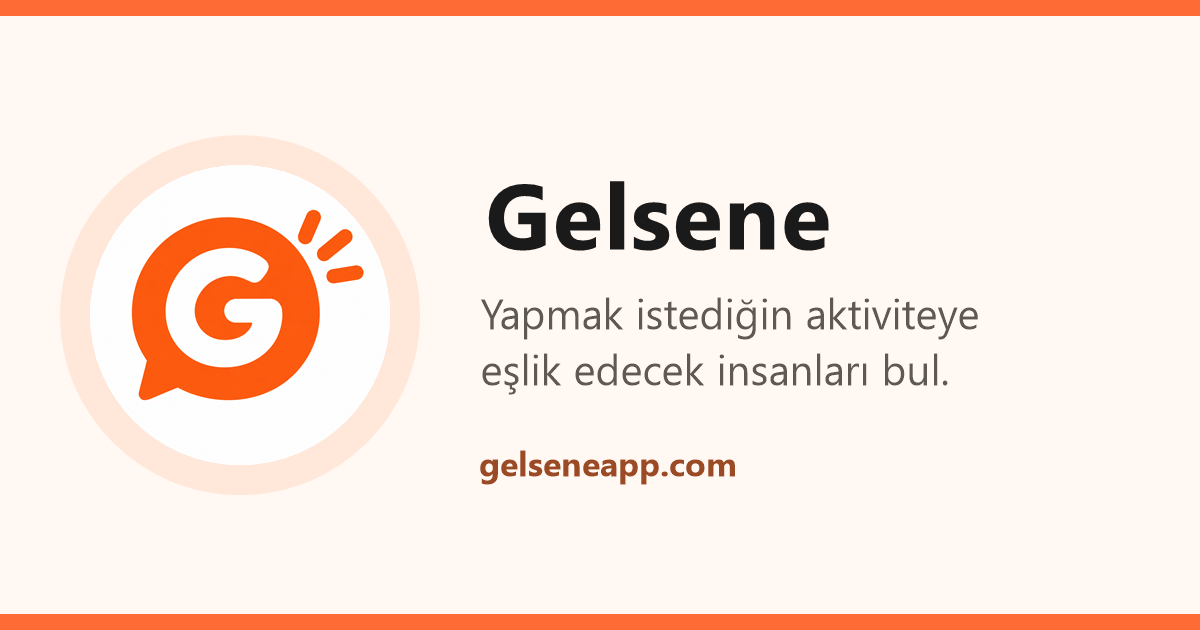
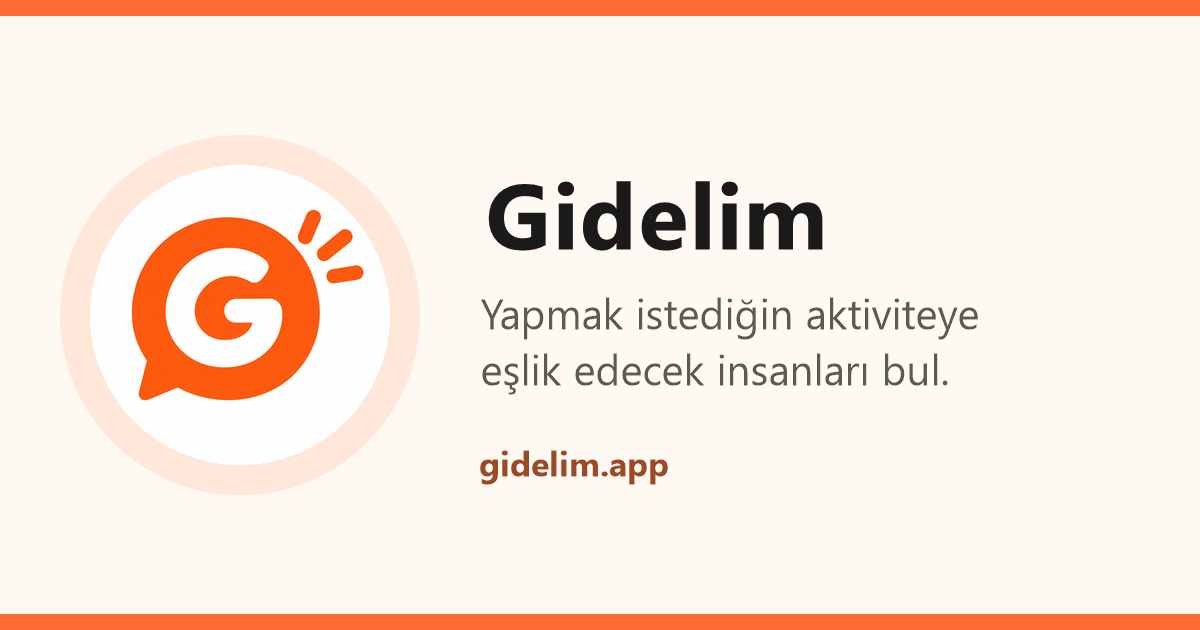
Siteyi Gidelim adına ve gidelim.app alan adına taşı

Changed region(s): [[0.4625, 0.2714, 0.7092, 0.4222], [0.4008, 0.6937, 0.6167, 0.7841]]

diff --git a/src/data/legal.ts b/src/data/legal.ts
@@ -16,8 +16,8 @@ export type LegalDocument = {
   blocks: LegalBlock[];
 };
 
-export const LEGAL_CONTACT_EMAIL = 'destek@gelseneapp.com';
-export const LEGAL_LAST_UPDATED = '6 Ekim 2026';
+export const LEGAL_CONTACT_EMAIL = 'destek@gidelim.app';
+export const LEGAL_LAST_UPDATED = '14 Ekim 2026';
 
 export const LEGAL_DOCUMENTS: Record<LegalDocId, LegalDocument> = {
   privacy: {
@@ -27,10 +27,10 @@ export const LEGAL_DOCUMENTS: Record<LegalDocId, LegalDocument> = {
       { type: 'heading', text: '1. Veri Sorumlusu' },
       {
         type: 'paragraph',
-        text: `Gelsene mobil uygulaması ("Uygulama", "Gelsene"), 6698 sayılı Kişisel Verilerin Korunması Kanunu ("KVKK") kapsamında veri sorumlusu sıfatıyla işletilmektedir. Kişisel verilerinizle ilgili sorularınız için ${LEGAL_CONTACT_EMAIL} adresinden bize ulaşabilirsiniz.`,
+        text: `Gidelim mobil uygulaması ("Uygulama", "Gidelim"), 6698 sayılı Kişisel Verilerin Korunması Kanunu ("KVKK") kapsamında veri sorumlusu sıfatıyla işletilmektedir. Kişisel verilerinizle ilgili sorularınız için ${LEGAL_CONTACT_EMAIL} adresinden bize ulaşabilirsiniz.`,
       },
       { type: 'heading', text: '2. İşlenen Kişisel Veriler' },
-      { type: 'paragraph', text: "Gelsene'yi kullanırken aşağıdaki kişisel verileriniz işlenebilir:" },
+      { type: 'paragraph', text: "Gidelim'i kullanırken aşağıdaki kişisel verileriniz işlenebilir:" },
       {
         type: 'bullets',
         items: [
@@ -76,7 +76,7 @@ export const LEGAL_DOCUMENTS: Record<LegalDocId, LegalDocument> = {
       { type: 'heading', text: '4. Kişisel Verilerin Aktarılması' },
       {
         type: 'paragraph',
-        text: "Verileriniz, Uygulama'nın altyapısını sağlayan hizmet sağlayıcılarla (örneğin Supabase — veritabanı, kimlik doğrulama ve depolama hizmeti; Expo/Firebase — push bildirim altyapısı) hizmetin gerektirdiği ölçüde paylaşılır. Bu sağlayıcılar, verilerinizi yalnızca Gelsene'ye hizmet sunmak amacıyla işler. Verileriniz, yasal zorunluluklar dışında üçüncü taraflarla pazarlama amacıyla paylaşılmaz veya satılmaz.",
+        text: "Verileriniz, Uygulama'nın altyapısını sağlayan hizmet sağlayıcılarla (örneğin Supabase — veritabanı, kimlik doğrulama ve depolama hizmeti; Expo/Firebase — push bildirim altyapısı) hizmetin gerektirdiği ölçüde paylaşılır. Bu sağlayıcılar, verilerinizi yalnızca Gidelim'e hizmet sunmak amacıyla işler. Verileriniz, yasal zorunluluklar dışında üçüncü taraflarla pazarlama amacıyla paylaşılmaz veya satılmaz.",
       },
       { type: 'heading', text: '5. Kişisel Verilerin Saklanma Süresi' },
       {
@@ -114,22 +114,22 @@ export const LEGAL_DOCUMENTS: Record<LegalDocId, LegalDocument> = {
       { type: 'heading', text: '1. Taraflar ve Kabul' },
       {
         type: 'paragraph',
-        text: `Bu Kullanım Şartları ("Şartlar"), Gelsene mobil uygulamasını ("Uygulama") kullanan siz ("Kullanıcı") ile Uygulama'yı işleten Gelsene arasındaki ilişkiyi düzenler. Uygulama'ya kayıt olarak veya kullanarak bu Şartlar'ı ve Gizlilik Politikası'nı kabul etmiş sayılırsınız.`,
+        text: `Bu Kullanım Şartları ("Şartlar"), Gidelim mobil uygulamasını ("Uygulama") kullanan siz ("Kullanıcı") ile Uygulama'yı işleten Gidelim arasındaki ilişkiyi düzenler. Uygulama'ya kayıt olarak veya kullanarak bu Şartlar'ı ve Gizlilik Politikası'nı kabul etmiş sayılırsınız.`,
       },
       { type: 'heading', text: '2. Hizmetin Tanımı' },
       {
         type: 'paragraph',
-        text: 'Gelsene, kullanıcıların ortak ilgi alanlarına dayalı sosyal aktiviteler oluşturabildiği, bu aktivitelere katılabildiği ve diğer katılımcılarla uygulama içi sohbet üzerinden iletişim kurabildiği bir sosyal eşleştirme platformudur.',
+        text: 'Gidelim, kullanıcıların ortak ilgi alanlarına dayalı sosyal aktiviteler oluşturabildiği, bu aktivitelere katılabildiği ve diğer katılımcılarla uygulama içi sohbet üzerinden iletişim kurabildiği bir sosyal eşleştirme platformudur.',
       },
       { type: 'heading', text: '3. Yaş Sınırı' },
       {
         type: 'paragraph',
-        text: "Gelsene'yi kullanmak için 18 yaşını doldurmuş olmanız gerekmektedir. Uygulama'ya kayıt olarak 18 yaşını doldurduğunuzu beyan etmiş olursunuz.",
+        text: "Gidelim'i kullanmak için 18 yaşını doldurmuş olmanız gerekmektedir. Uygulama'ya kayıt olarak 18 yaşını doldurduğunuzu beyan etmiş olursunuz.",
       },
       { type: 'heading', text: '4. Hesap ve Kimlik Doğrulama' },
       {
         type: 'paragraph',
-        text: "Hesabınızın güvenliğinden siz sorumlusunuz. Gelsene, kullanıcı güvenliğini artırmak amacıyla selfie fotoğrafı yoluyla kimlik doğrulama isteğinde bulunabilir; doğrulama süreci Gizlilik Politikası'nda açıklandığı şekilde yürütülür. Gerçeğe aykırı bilgi veya başka bir kişiye ait görsel/kimlik kullanmak hesabın askıya alınmasına veya kapatılmasına neden olabilir.",
+        text: "Hesabınızın güvenliğinden siz sorumlusunuz. Gidelim, kullanıcı güvenliğini artırmak amacıyla selfie fotoğrafı yoluyla kimlik doğrulama isteğinde bulunabilir; doğrulama süreci Gizlilik Politikası'nda açıklandığı şekilde yürütülür. Gerçeğe aykırı bilgi veya başka bir kişiye ait görsel/kimlik kullanmak hesabın askıya alınmasına veya kapatılmasına neden olabilir.",
       },
       { type: 'heading', text: '5. Kullanıcı Sorumlulukları ve Yasaklı Davranışlar' },
       {
@@ -149,17 +149,17 @@ export const LEGAL_DOCUMENTS: Record<LegalDocId, LegalDocument> = {
       { type: 'heading', text: '6. İçerik ve Moderasyon' },
       {
         type: 'paragraph',
-        text: "Paylaştığınız profil bilgileri, mesajlar ve aktivite içerikleri sizin sorumluluğunuzdadır. Gelsene, Uygulama içindeki mevcut şikâyet ve engelleme mekanizmaları aracılığıyla bildirilen içerikleri inceleyebilir; bu Şartlar'a veya yürürlükteki mevzuata aykırı bulduğu içerikleri kaldırma ve ilgili hesabı kısıtlama veya kapatma hakkını saklı tutar.",
+        text: "Paylaştığınız profil bilgileri, mesajlar ve aktivite içerikleri sizin sorumluluğunuzdadır. Gidelim, Uygulama içindeki mevcut şikâyet ve engelleme mekanizmaları aracılığıyla bildirilen içerikleri inceleyebilir; bu Şartlar'a veya yürürlükteki mevzuata aykırı bulduğu içerikleri kaldırma ve ilgili hesabı kısıtlama veya kapatma hakkını saklı tutar.",
       },
       { type: 'heading', text: '7. Fikri Mülkiyet' },
       {
         type: 'paragraph',
-        text: "Uygulama'nın tasarımı, logosu, markası ve yazılımı Gelsene'ye aittir ve ilgili fikri mülkiyet mevzuatı kapsamında korunur. Paylaştığınız içeriklerin (profil fotoğrafı, mesajlar vb.) mülkiyeti size aittir; ancak bu içeriklerin hizmetin sunulması amacıyla Uygulama içinde görüntülenmesine izin verirsiniz.",
+        text: "Uygulama'nın tasarımı, logosu, markası ve yazılımı Gidelim'e aittir ve ilgili fikri mülkiyet mevzuatı kapsamında korunur. Paylaştığınız içeriklerin (profil fotoğrafı, mesajlar vb.) mülkiyeti size aittir; ancak bu içeriklerin hizmetin sunulması amacıyla Uygulama içinde görüntülenmesine izin verirsiniz.",
       },
       { type: 'heading', text: '8. Sorumluluğun Sınırlandırılması' },
       {
         type: 'paragraph',
-        text: 'Gelsene, kullanıcıların birbiriyle gerçekleştirdiği aktivitelerde aracı bir platform konumundadır. Kullanıcılar arası fiziksel buluşmalardan, aktivite sırasında yaşanabilecek anlaşmazlık, kayıp veya zararlardan Gelsene sorumlu tutulamaz. Kullanıcıların birbiriyle buluşurken temkinli olması önerilir.',
+        text: 'Gidelim, kullanıcıların birbiriyle gerçekleştirdiği aktivitelerde aracı bir platform konumundadır. Kullanıcılar arası fiziksel buluşmalardan, aktivite sırasında yaşanabilecek anlaşmazlık, kayıp veya zararlardan Gidelim sorumlu tutulamaz. Kullanıcıların birbiriyle buluşurken temkinli olması önerilir.',
       },
       { type: 'heading', text: '9. Hesabın Sonlandırılması' },
       {

diff --git a/src/data/content.ts b/src/data/content.ts
@@ -86,34 +86,34 @@ export const ACTIVITY_TYPES = [
 
 export const HOME_FAQ: Faq[] = [
   {
-    question: 'Gelsene nedir?',
+    question: 'Gidelim nedir?',
     answer:
-      'Gelsene, yalnız yapmak istemediğin şeyler için birlikte yapacak insan bulmanı sağlayan bir uygulama. Yürüyüş, halı saha, kitap kulübü ya da kahve gibi bir aktivite açarsın veya başkasının aktivitesine katılırsın. Aktivitenin grup sohbetinde tanışıp buluşursunuz.',
+      'Gidelim, yalnız yapmak istemediğin şeyler için birlikte yapacak insan bulmanı sağlayan bir uygulama. Yürüyüş, halı saha, kitap kulübü ya da kahve gibi bir aktivite açarsın veya başkasının aktivitesine katılırsın. Aktivitenin grup sohbetinde tanışıp buluşursunuz.',
   },
   {
-    question: 'Gelsene ücretsiz mi?',
+    question: 'Gidelim ücretsiz mi?',
     answer:
-      'Evet. Gelsene’yi kullanmak ücretsizdir; uygulamada abonelik veya uygulama içi satın alma yoktur. Bazı aktiviteler, organizatörün belirttiği bir katılım ücretine sahip olabilir; bu durumda ücret aktivitenin bilgilerinde açıkça yazar ve uygulama üzerinden ödeme alınmaz.',
+      'Evet. Gidelim’i kullanmak ücretsizdir; uygulamada abonelik veya uygulama içi satın alma yoktur. Bazı aktiviteler, organizatörün belirttiği bir katılım ücretine sahip olabilir; bu durumda ücret aktivitenin bilgilerinde açıkça yazar ve uygulama üzerinden ödeme alınmaz.',
   },
   {
-    question: 'Gelsene güvenli mi, hesap doğrulama nasıl yapılıyor?',
+    question: 'Gidelim güvenli mi, hesap doğrulama nasıl yapılıyor?',
     answer:
-      'Gelsene’de hesabını selfie ile doğrulayabilirsin: ön kamerayla çektiğin selfie, açık rızan alınarak yalnızca doğrulama amacıyla incelenir ve inceleme bitince silinir. Onaylanan hesapların isminin yanında doğrulanmış hesap rozeti görünür. Ayrıca kullanıcıları engelleyebilir, kullanıcıları ve aktiviteleri şikâyet edebilirsin; aktivitenin katılımcı tercihi (karma, sadece kadın, sadece erkek) ve yaş aralığı da baştan belirtilir.',
+      'Gidelim’de hesabını selfie ile doğrulayabilirsin: ön kamerayla çektiğin selfie, açık rızan alınarak yalnızca doğrulama amacıyla incelenir ve inceleme bitince silinir. Onaylanan hesapların isminin yanında doğrulanmış hesap rozeti görünür. Ayrıca kullanıcıları engelleyebilir, kullanıcıları ve aktiviteleri şikâyet edebilirsin; aktivitenin katılımcı tercihi (karma, sadece kadın, sadece erkek) ve yaş aralığı da baştan belirtilir.',
   },
   {
-    question: 'Gelsene’ye kimler katılabilir?',
+    question: 'Gidelim’e kimler katılabilir?',
     answer:
-      'Gelsene\'yi 18 yaşını doldurmuş herkes kullanabilir. Kayıt olurken Gizlilik Politikası\'nı ve Kullanım Şartları\'nı kabul etmen gerekir. Kabul ederek 18 yaşından büyük olduğunu da beyan etmiş olursun.',
+      'Gidelim\'i 18 yaşını doldurmuş herkes kullanabilir. Kayıt olurken Gizlilik Politikası\'nı ve Kullanım Şartları\'nı kabul etmen gerekir. Kabul ederek 18 yaşından büyük olduğunu da beyan etmiş olursun.',
   },
   {
     question: 'Verilerim nasıl kullanılıyor?',
     answer:
-      'Gelsene, kişisel verilerini 6698 sayılı KVKK kapsamında; hesabını yönetmek, aktivite önerilerini sunmak, kullanıcılar arası iletişimi sağlamak ve uygulamayı güvende tutmak için işler. Verilerin pazarlama amacıyla üçüncü taraflarla paylaşılmaz veya satılmaz; yalnızca altyapı sağlayıcılarıyla (Supabase, Expo/Firebase) hizmetin gerektirdiği ölçüde paylaşılır. Hesabını dilediğin an uygulamadaki “Hesabı Sil” adımıyla silebilirsin. Bu sitede de takip veya analitik aracı kullanılmaz.',
+      'Gidelim, kişisel verilerini 6698 sayılı KVKK kapsamında; hesabını yönetmek, aktivite önerilerini sunmak, kullanıcılar arası iletişimi sağlamak ve uygulamayı güvende tutmak için işler. Verilerin pazarlama amacıyla üçüncü taraflarla paylaşılmaz veya satılmaz; yalnızca altyapı sağlayıcılarıyla (Supabase, Expo/Firebase) hizmetin gerektirdiği ölçüde paylaşılır. Hesabını dilediğin an uygulamadaki “Hesabı Sil” adımıyla silebilirsin. Bu sitede de takip veya analitik aracı kullanılmaz.',
   },
   {
-    question: 'Gelsene’yi nereden indirebilirim?',
+    question: 'Gidelim’i nereden indirebilirim?',
     answer:
-      'Gelsene henüz uygulama mağazalarında yayında değil; App Store ve Google Play’e yakında geliyor. Yayına çıktığında indirme bağlantıları bu sayfada olacak.',
+      'Gidelim henüz uygulama mağazalarında yayında değil; App Store ve Google Play’e yakında geliyor. Yayına çıktığında indirme bağlantıları bu sayfada olacak.',
   },
 ];
 

diff --git a/src/activity-page.ts b/src/activity-page.ts
@@ -146,20 +146,20 @@ ${links}
 </head>
 <body>
 <a class="skip-link" href="#icerik">İçeriğe geç</a>
-<header class="site-header"><div class="container header-inner"><a class="brand" href="/" aria-label="Gelsene ana sayfa"><img src="/logo-192.png" alt="" width="36" height="36"><span>Gelsene</span></a><nav aria-label="Ana menü"><ul class="nav-list"><li><a href="/destek">Destek</a></li><li><a href="/gizlilik">Gizlilik</a></li><li><a href="/kullanim-sartlari">Kullanım Şartları</a></li></ul></nav></div></header>
+<header class="site-header"><div class="container header-inner"><a class="brand" href="/" aria-label="Gidelim ana sayfa"><img src="/logo-192.png" alt="" width="36" height="36"><span>Gidelim</span></a><nav aria-label="Ana menü"><ul class="nav-list"><li><a href="/destek">Destek</a></li><li><a href="/gizlilik">Gizlilik</a></li><li><a href="/kullanim-sartlari">Kullanım Şartları</a></li></ul></nav></div></header>
 <main id="icerik" tabindex="-1">
 ${body}
 </main>
-<footer class="site-footer"><div class="container footer-inner"><div><p class="footer-brand">Gelsene</p><p class="muted">Birlikte yapacak insan bul.</p></div><p class="muted">İletişim: <a href="mailto:${escapeHtml(CONTACT_EMAIL)}">${escapeHtml(CONTACT_EMAIL)}</a></p><p class="muted small">© ${year} Gelsene. Bu site çerez, takip ya da analitik aracı kullanmaz.</p></div></footer>
+<footer class="site-footer"><div class="container footer-inner"><div><p class="footer-brand">Gidelim</p><p class="muted">Birlikte yapacak insan bul.</p></div><p class="muted">İletişim: <a href="mailto:${escapeHtml(CONTACT_EMAIL)}">${escapeHtml(CONTACT_EMAIL)}</a></p><p class="muted small">© ${year} Gidelim. Bu site çerez, takip ya da analitik aracı kullanmaz.</p></div></footer>
 </body>
 </html>`;
 }
 
 const JOIN_SECTION = `<section class="card join" aria-labelledby="join-title">
-  <h2 id="join-title">Katılmak için Gelsene uygulaması gerekiyor.</h2>
-  <p class="muted">Gelsene çok yakında App Store ve Google Play’de.</p>
+  <h2 id="join-title">Katılmak için Gidelim uygulaması gerekiyor.</h2>
+  <p class="muted">Gidelim çok yakında App Store ve Google Play’de.</p>
   ${STORE_BADGES}
-  <p class="join-links"><a href="/">Gelsene nedir?</a></p>
+  <p class="join-links"><a href="/">Gidelim nedir?</a></p>
 </section>`;
 
 export function renderActivityPage(activity: PublicActivity, stylesheets: string[]): string {
@@ -188,7 +188,7 @@ export function renderActivityPage(activity: PublicActivity, stylesheets: string
 </div>`;
 
   return shell({
-    title: `${title} | Gelsene`,
+    title: `${title} | Gidelim`,
     description: [date, location, spots].filter(Boolean).join(' · '),
     canonical: `${SITE.url}/a/${activity.id}`,
     ogImage: new URL(SITE.ogImage, SITE.url).href,
@@ -208,7 +208,7 @@ export function renderGonePage(stylesheets: string[]): string {
 </div>`;
 
   return shell({
-    title: 'Aktivite bulunamadı | Gelsene',
+    title: 'Aktivite bulunamadı | Gidelim',
     description: 'Bu aktivite artık yok ya da sona erdi.',
     ogImage: new URL(SITE.ogImage, SITE.url).href,
     stylesheets,
@@ -226,7 +226,7 @@ export function renderUnavailablePage(stylesheets: string[]): string {
 </div>`;
 
   return shell({
-    title: 'Aktivite yüklenemedi | Gelsene',
+    title: 'Aktivite yüklenemedi | Gidelim',
     description: 'Aktivite şu an yüklenemedi.',
     ogImage: new URL(SITE.ogImage, SITE.url).href,
     stylesheets,

diff --git a/src/data/site.ts b/src/data/site.ts
@@ -6,16 +6,16 @@ export const CONTACT_EMAIL = LEGAL_CONTACT_EMAIL;
 export const LEGAL_UPDATED = LEGAL_LAST_UPDATED;
 
 export const SITE = {
-  name: 'Gelsene',
-  url: 'https://gelseneapp.com',
+  name: 'Gidelim',
+  url: 'https://gidelim.app',
   locale: 'tr_TR',
   lang: 'tr',
   brandColor: '#FF6B35',
   ogImage: '/og-image.png',
-  ogImageAlt: 'Gelsene logosu, “Yapmak istediğin aktiviteye eşlik edecek insanları bul.” sloganı ve gelseneapp.com adresi',
+  ogImageAlt: 'Gidelim logosu, “Yapmak istediğin aktiviteye eşlik edecek insanları bul.” sloganı ve gidelim.app adresi',
   tagline: 'Yapmak istediğin aktiviteye eşlik edecek insanları bul.',
   description:
-    'Gelsene, yalnız yapmak istemediğin şeyler için birlikte yapacak insan bulmanı sağlayan ücretsiz bir aktivite uygulamasıdır.',
+    'Gidelim, yalnız yapmak istemediğin şeyler için birlikte yapacak insan bulmanı sağlayan ücretsiz bir aktivite uygulamasıdır.',
 } as const;
 
 export const NAV = [
@@ -29,8 +29,8 @@ export const NAV = [
 export const PAGES = [
   {
     path: '/',
-    title: 'Gelsene | Birlikte yapacak insan bul',
-    summary: 'Gelsene nedir, nasıl çalışır, öne çıkan özellikler ve sık sorulan sorular.',
+    title: 'Gidelim | Birlikte yapacak insan bul',
+    summary: 'Gidelim nedir, nasıl çalışır, öne çıkan özellikler ve sık sorulan sorular.',
   },
   {
     path: '/destek',

diff --git a/README.md b/README.md
@@ -1,6 +1,6 @@
-# gelseneapp.com
+# gidelim.app
 
-Gelsene uygulamasının statik tanıtım sitesi. Astro (statik çıktı) + TypeScript; çalışma zamanında
+Gidelim uygulamasının statik tanıtım sitesi. Astro (statik çıktı) + TypeScript; çalışma zamanında
 JavaScript, çerez, takip veya analitik yok.
 
 ```bash
